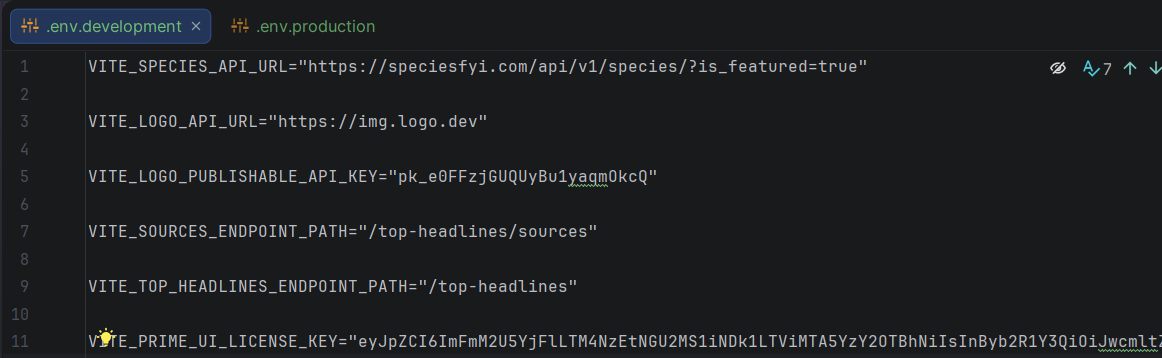
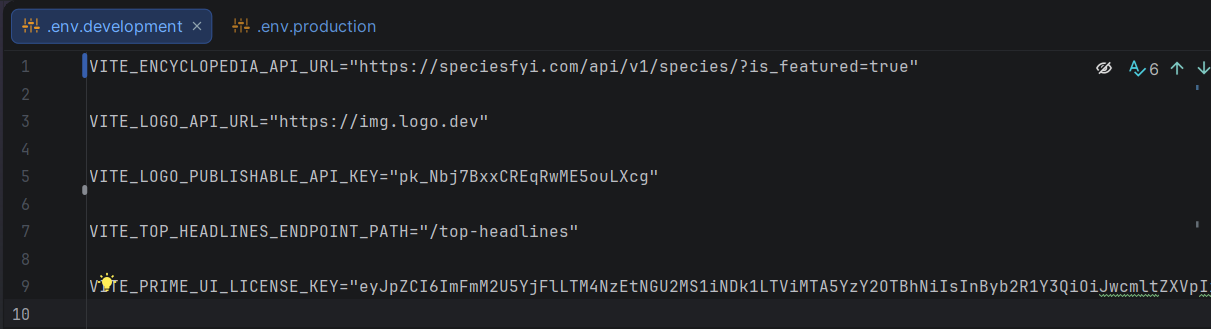
docs: add new images and update manual 4

diff --git a/manual/MANUAL.md b/manual/MANUAL.md
@@ -105,3 +105,16 @@ Volviendo a un archivo que creamos antes, ose "logo-dev-api.js", lo desarrollamo
 <img src="imagenes/logo-dev.png">
 
 ### Encyclopedia
+
+Antes de empezar, tienes que pegar la url en está página: https://app.quicktype.io/
+
+<img src="imagenes/quicktype.png">
+
+Al empezar, tienes que crear esta carpeta con esta estructura:
+
+<img src="imagenes/encyclopedia-estructura.png">
+
+Luego, desarrollas estos archivos:
+* Empiezas con el archivo entity, con su constructor y, por si acaso, sus getters.
+* Desarrollas los archivos "encyclopedia-api.js" y "result.assembler.js" (El archivo "encyclopedia-resource.js" se queda vacio, no preguntes)
+* 
